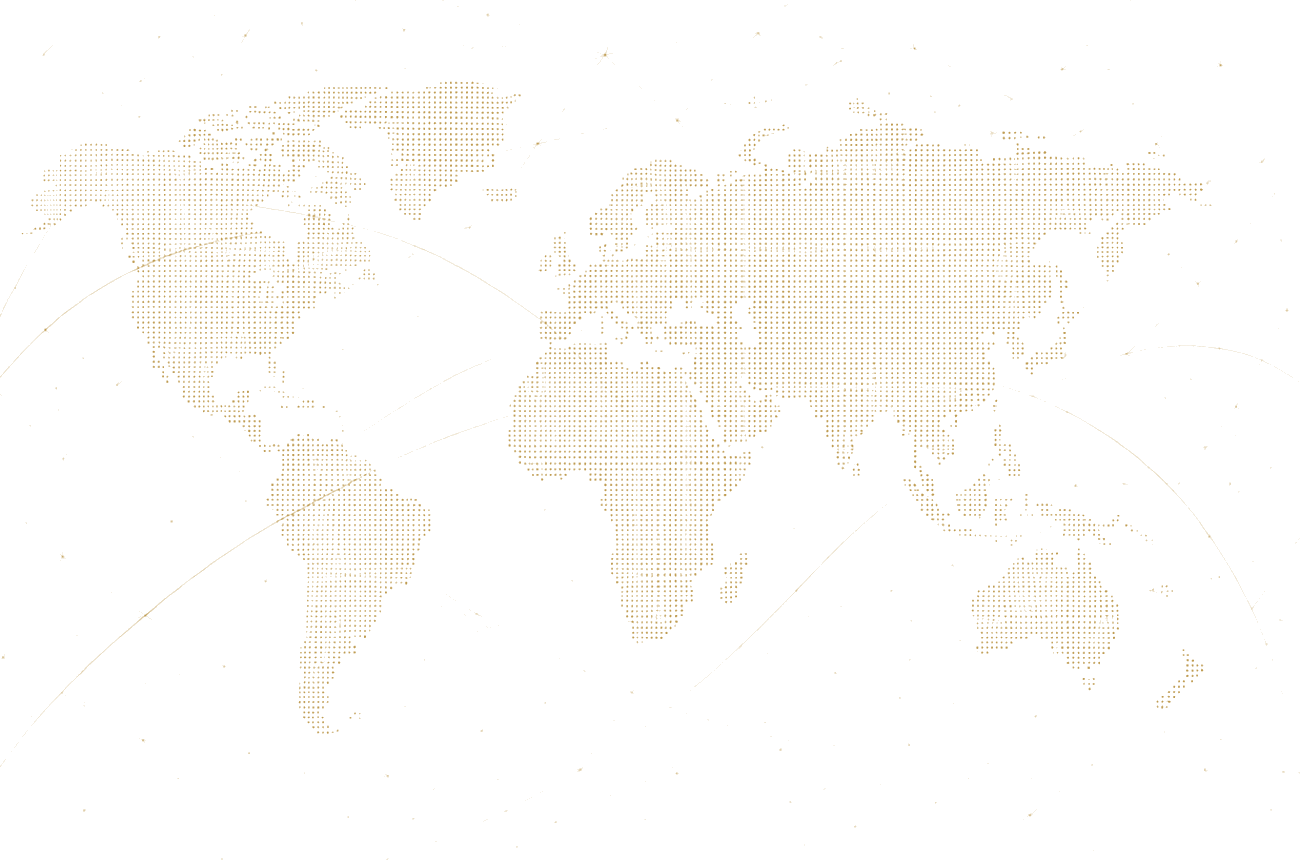
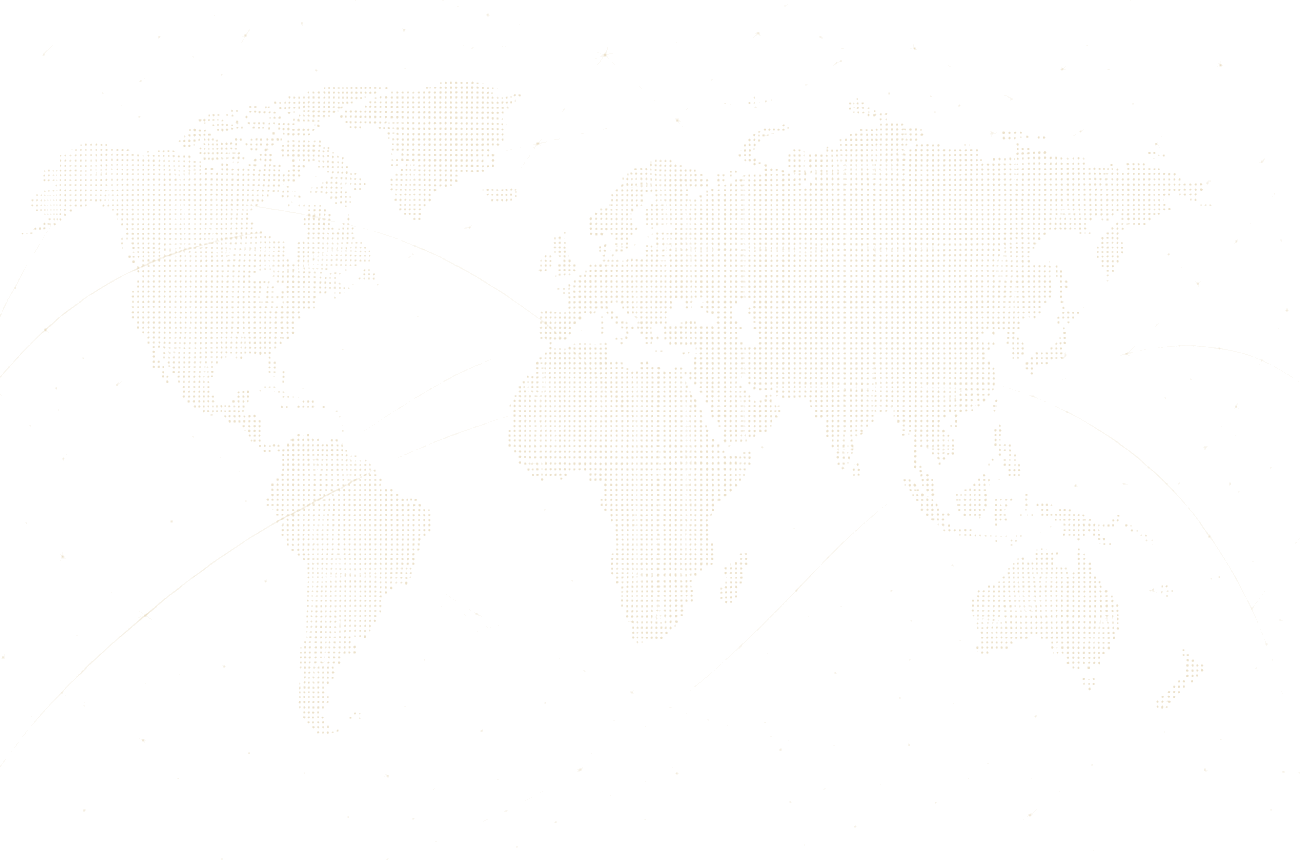
Hero: selo dominante (100%, contraste, sombra+glow) e mapa fraco (~22%) ao fundo
Conforme spec: a logo chama atencao imediatamente (nitida, drop-shadow
0 16px 40px + glow dourado discreto, contrast 1.05, ~37vw ate 700px, leve
deslocamento a direita, sem cortar); mapa-mundi reduzido a ~22% apenas para
dar profundidade, sem competir.

diff --git a/src/app/globals.css b/src/app/globals.css
@@ -187,13 +187,15 @@ h1, h2, h3 { font-family: var(--font-display); font-weight: 700; line-height: 1.
     radial-gradient(circle at 55% 47%, #141414 0%, #0a0a0a 46%, #060606 100%);
   background-blend-mode: normal;
 }
-/* selo como marca d'água elegante: grande, cortado à direita, sutil (soft-light) */
+/* selo dominante, nítido (100%) — a logo chama atenção, o mapa só dá profundidade */
 .hero-emblem {
-  position: absolute; z-index: 2;
-  top: 50%; left: 60%; transform: translate(-50%, -50%);
-  width: 106%; height: auto; max-width: none;
-  opacity: 0.16; mix-blend-mode: soft-light;
-  pointer-events: none;
+  position: relative; z-index: 3;
+  width: clamp(520px, 37vw, 700px); height: auto; max-width: 88%;
+  opacity: 1; mix-blend-mode: normal;
+  transform: translateX(5%);
+  filter: contrast(1.05)
+          drop-shadow(0 16px 40px rgba(0,0,0,0.38))
+          drop-shadow(0 0 24px rgba(198,163,90,0.10));
 }
 
 /* ---------- propósito (5 pilares) ---------- */

diff --git a/src/components/Sections.tsx b/src/components/Sections.tsx
@@ -32,10 +32,10 @@ export function Hero() {
       <div className="hero-right" aria-hidden="true">
         <Image
           className="hero-emblem"
-          src="/logo-ctb-transparent.png"
+          src="/hero-seal.png"
           alt="Selo da Câmara de Comércio Brasil–Omã"
-          width={900}
-          height={900}
+          width={700}
+          height={700}
           priority
         />
       </div>
